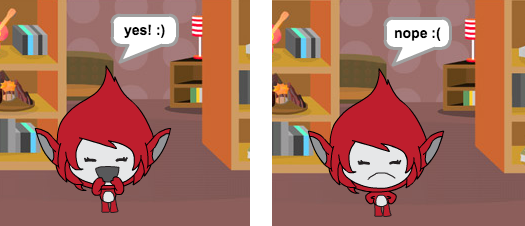
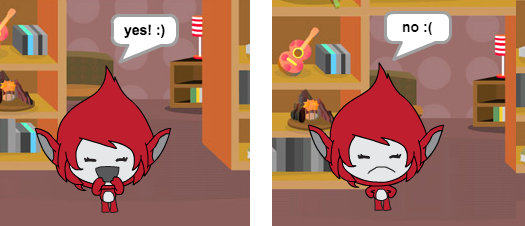
Change nope to no

Changed region(s): [[0.5181, 0.0, 1.0, 0.9602]]

diff --git a/en/step_2.md b/en/step_2.md
@@ -56,7 +56,7 @@ You can then `ask the player`{:class="blocksensing"} for the answer, and let the
 	+ if <(answer) = ((number 1)*(number 2))> then
 		+ say [yes! :)] for (2) secs
 	+ else
-		+ say [nope :(] for (2) secs
+		+ say [no :(] for (2) secs
 	+ end
 ```
 --- /task ---
@@ -91,7 +91,7 @@ Here is the code you will need:
     	if <(answer) = ((number 1)*(number 2))> then
     		say [yes! :)] for (2) secs
     	else
-    		say [nope :(] for (2) secs
+    		say [no :(] for (2) secs
     	end
     end
 ```
